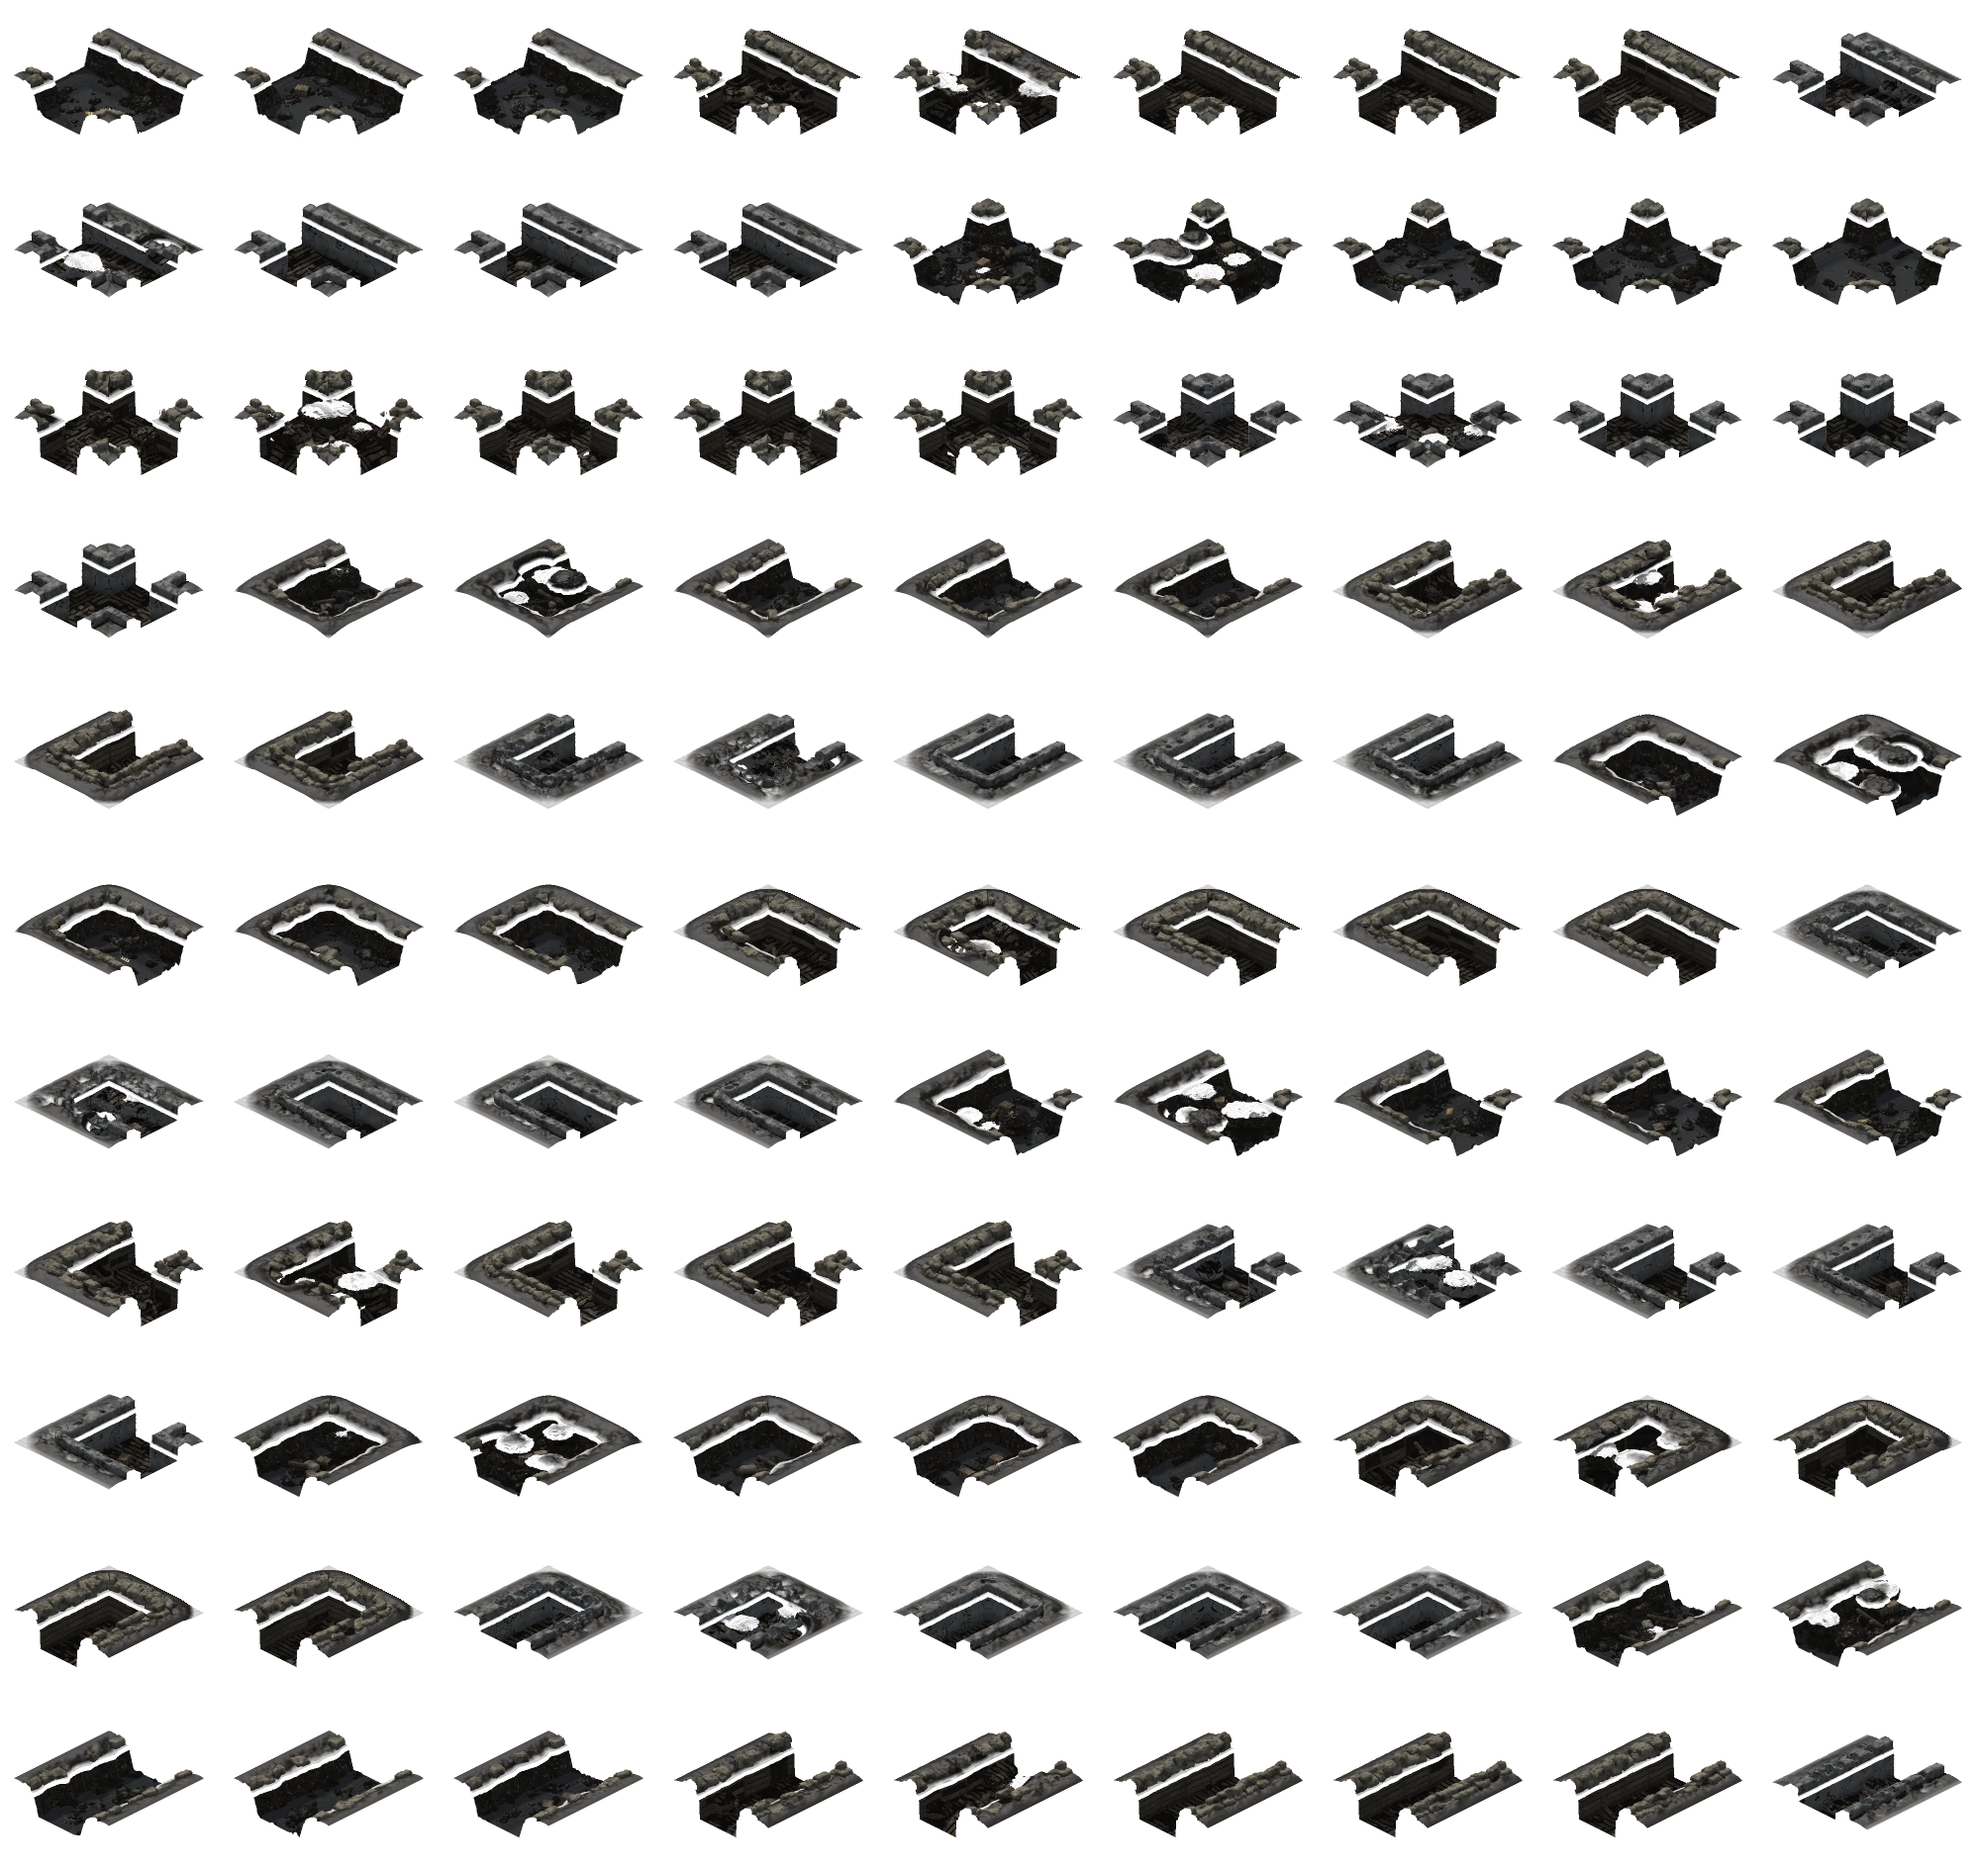
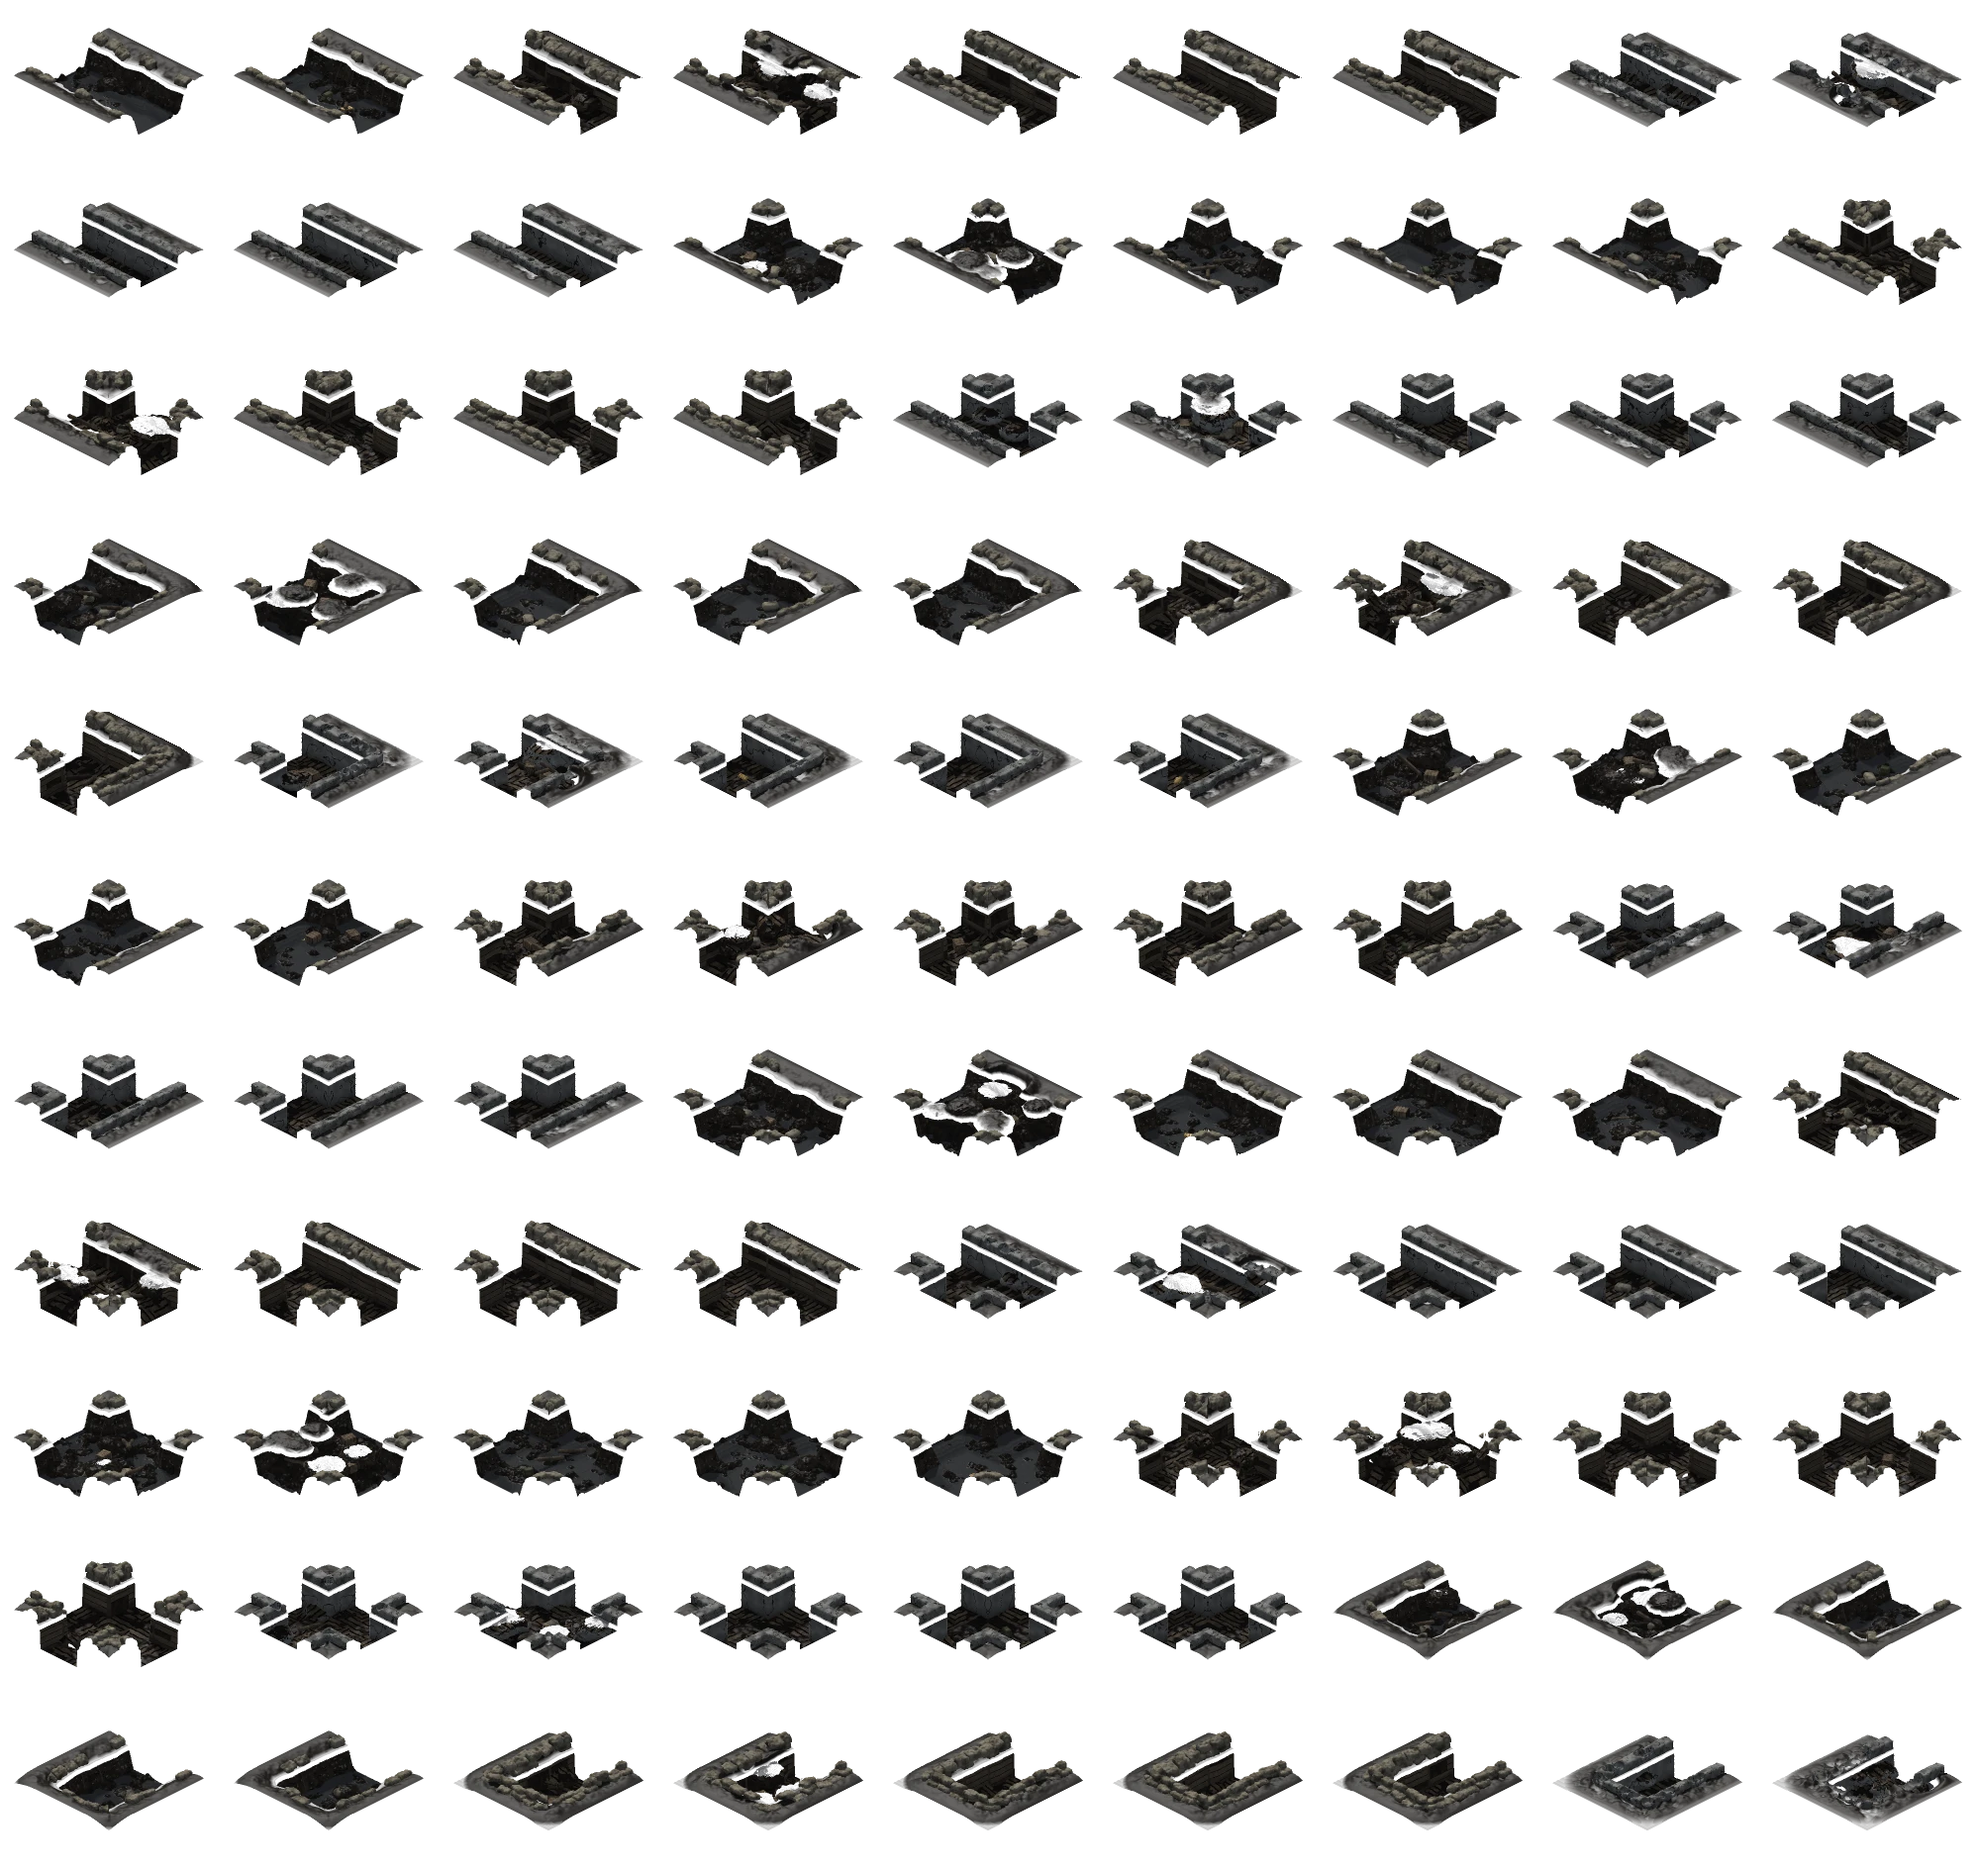
Big Alpine boulders instead of stacked-slab rock outcrops
A new pre-rendered boulder in three sizes (1, 2 and 3 tiles; three variants each, bare and snowy):
massive rounded limestone blocks with broken faces, the odd deep crack, streaks and lichen, snow on
their tops, loose stones at the foot. The renderer gathers rock tiles into 3x3 and 2x2 blocks wherever
it can and draws one great boulder over each, single boulders for the rest.

Claude-Session: https://claude.ai/code/session_01QRLYjet5i3xPK5hPmw42NL

diff --git a/src/render.js b/src/render.js
@@ -896,7 +896,7 @@ export class Renderer {
     // depth-sorted objects
     const objs = [];
     for (const t of state.map.tiles) if (t.decor) objs.push({ k: t.x + t.y + 1, kind: 'decor', t });
-    for (const t of state.map.tiles) if (t.rock) objs.push({ k: t.x + t.y + 1, kind: 'rock', t });
+    for (const r of this.rockBlocks(state.map)) objs.push({ k: r.x + r.y + 2 * r.size - 1, kind: 'rock', r });
     // a town on the battlefield: sorted by its front corner, so men behind it are hidden and men in front are not
     if (bd) objs.push({ k: bd.x + bd.y + (bd.hx || 0) + (bd.hy || 0) - 1, kind: 'town', bd });
     for (const team of [PLAYER, ENEMY]) {
@@ -910,7 +910,7 @@ export class Renderer {
     for (const o of objs) {
       if (o.kind === 'decor') this.drawDecor(ctx, o.t);
       else if (o.kind === 'hq') this.drawHQ(ctx, state, o.q, o.team);
-      else if (o.kind === 'rock') this.drawRock(ctx, o.t);
+      else if (o.kind === 'rock') this.drawRock(ctx, o.r);
       else if (o.kind === 'town') this.drawBackdrop(ctx, o.bd);
       else if (o.kind === 'bunker') this.drawBunker(ctx, o.b, o.u, state.time, ui.selected.has(o.b.id));
       else this.drawUnit(ctx, o.u, ui.selected.has(o.u.id), state.time);
@@ -1288,14 +1288,33 @@ export class Renderer {
     ctx.drawImage(im, c.x - bd.ax * bd.k, c.y - bd.ay * bd.k, im.width * bd.k, im.height * bd.k);
   }
 
-  /** An impassable snow-capped rock outcrop (pre-rendered), a little larger than its tile. */
-  drawRock(ctx, t) {
-    const h = hash(t.x * 3.7, t.y * 1.9), c = iso(t.x + 0.5 + (h - 0.5) * 0.15, t.y + 0.5 + (hash(t.y, t.x) - 0.5) * 0.15);
+  /**
+   * The rock tiles gathered into boulders: wherever a 3x3 or 2x2 block of tiles is all rock it becomes one
+   * great boulder, the rest single ones. Worked out once per map (rock is never destroyed).
+   */
+  rockBlocks(map) {
+    const n = map.tiles.reduce((c, t) => c + (t.rock ? 1 : 0), 0);
+    if (this._rocks && this._rocks.map === map && this._rocks.n === n) return this._rocks.list;
+    const W = map.w, used = new Uint8Array(W * map.h), list = [];
+    const free = (x, y) => x < W && y < map.h && map.tiles[y * W + x].rock && !used[y * W + x];
+    const block = (x, y, z) => { for (let j = 0; j < z; j++) for (let i = 0; i < z; i++) if (!free(x + i, y + j)) return false; return true; };
+    const take = (x, y, z) => { for (let j = 0; j < z; j++) for (let i = 0; i < z; i++) used[(y + j) * W + x + i] = 1; list.push({ x, y, size: z, v: Math.floor(hash(x * 1.3, y * 2.1) * 3) }); };
+    // the big ones first, at scattered places, then the middling ones, then whatever is left
+    for (const [z, p] of [[3, 0.9], [2, 0.95]]) for (let y = 0; y < map.h; y++) for (let x = 0; x < W; x++) if (hash(x * 0.7 + z, y * 1.9) < p && block(x, y, z)) take(x, y, z);
+    for (let y = 0; y < map.h; y++) for (let x = 0; x < W; x++) if (free(x, y)) take(x, y, 1);
+    this._rocks = { map, n, list };
+    return list;
+  }
+
+  /** A snow-capped Alpine boulder (pre-rendered) over its block of rock tiles. */
+  drawRock(ctx, r) {
+    const h = hash(r.x * 3.7, r.y * 1.9), c = iso(r.x + r.size / 2 + (h - 0.5) * 0.15, r.y + r.size / 2 + (hash(r.y, r.x) - 0.5) * 0.15);
     const snow = (this.S ?? 1) > 0.7 ? '_s' : '';
-    if (this.drawFrame(ctx, this.propGroup(), `rock${(t.rock - 1) % 4}${snow}`, c.x, c.y, 1.4 + h * 0.35, h > 0.5)) return;
+    if (this.drawFrame(ctx, this.propGroup(), `boulder${r.size}_${r.v}${snow}`, c.x, c.y, 1.22 + h * 0.2, h > 0.5)) return;
+    if (this.drawFrame(ctx, this.propGroup(), `rock${r.v}${snow}`, c.x, c.y, (1.4 + h * 0.35) * r.size, h > 0.5)) return;
     ctx.fillStyle = '#77736b'; // fallback: a plain grey boulder
-    ctx.beginPath(); ctx.ellipse(c.x, c.y - 10, 22, 16, 0, 0, TAU); ctx.fill();
-    ctx.fillStyle = '#e6eaf0'; ctx.beginPath(); ctx.ellipse(c.x - 3, c.y - 20, 12, 6, 0, 0, TAU); ctx.fill();
+    ctx.beginPath(); ctx.ellipse(c.x, c.y - 10 * r.size, 22 * r.size, 16 * r.size, 0, 0, TAU); ctx.fill();
+    ctx.fillStyle = '#e6eaf0'; ctx.beginPath(); ctx.ellipse(c.x - 3, c.y - 20 * r.size, 12 * r.size, 6 * r.size, 0, 0, TAU); ctx.fill();
   }
 
   /**

diff --git a/src/campaign.js b/src/campaign.js
@@ -321,7 +321,7 @@ export const LEVELS = [
     nations: ['italy', 'austria'], season: 'thaw', start: 'west', startHour: 5,
     history: 'The Sixth Battle of the Isonzo. Five times the Italian army has thrown itself at the Austro-Hungarian line above the river, and five times it has been cut down by machine guns firing from concrete emplacements in the rock. This time the guns must be found and silenced first. Three nests command the whole sector; until they fall, no attack can cross the open ground. Your batteries have been given shells for only a handful of barrages: make every one count.',
     objectives: ['Silence all three machine-gun nests, one after another along the valley.', 'Do it before nightfall on day 2.', 'Do not let the enemy take your headquarters.'],
-    rules: ['The valley is narrow and walled with rock: your men can only get through the gaps in the rock barriers.', 'Each nest is a concrete pillbox at the heart of its own strongpoint, behind wire. Shells only keep its crew\'s heads down: the infantry must take it.', 'Ammunition is short: 8 battery barrages for the whole battle. Bring the guns forward to reach the farther nests.'],
+    rules: ['The valley is narrow and strewn with great boulders: your men must work along the narrow lanes between them.', 'Each nest is a concrete pillbox at the heart of its own strongpoint, behind wire. Shells only keep its crew\'s heads down: the infantry must take it.', 'Ammunition is short: 8 battery barrages for the whole battle. Bring the guns forward to reach the farther nests.'],
     medals: ['The guns are silenced', 'Swift work: all three silenced before nightfall on day 1', 'Shells to spare: 3 or more barrages unused'],
     debrief: {
       won: 'With the machine guns silent, the Italian infantry crossed the open ground at last. In August 1916 the Sixth Battle of the Isonzo took Monte Sabotino and San Michele, and Gorizia fell: the greatest Italian victory of the war until its final year.',

diff --git a/index.html b/index.html
@@ -12,7 +12,7 @@
       "./src/ai.js": "./src/ai.js?v=3dae52f0",
       "./src/atmosphere.js": "./src/atmosphere.js?v=1e92f7e8",
       "./src/audio.js": "./src/audio.js?v=bbae5c50",
-      "./src/campaign.js": "./src/campaign.js?v=d196e592",
+      "./src/campaign.js": "./src/campaign.js?v=ec464a5d",
       "./src/config.js": "./src/config.js?v=ee084504",
       "./src/game.js": "./src/game.js?v=fa26c686",
       "./src/main.js": "./src/main.js?v=3ddce736",
@@ -20,7 +20,7 @@
       "./src/model-view.js": "./src/model-view.js?v=214a5b12",
       "./src/path.js": "./src/path.js?v=23c490f7",
       "./src/relief.js": "./src/relief.js?v=2441f819",
-      "./src/render.js": "./src/render.js?v=e0e9f070",
+      "./src/render.js": "./src/render.js?v=f5103d05",
       "./src/save.js": "./src/save.js?v=d9f3c3e0",
       "./src/tutorial.js": "./src/tutorial.js?v=134dce8b",
       "./src/ui.js": "./src/ui.js?v=268f3660",
